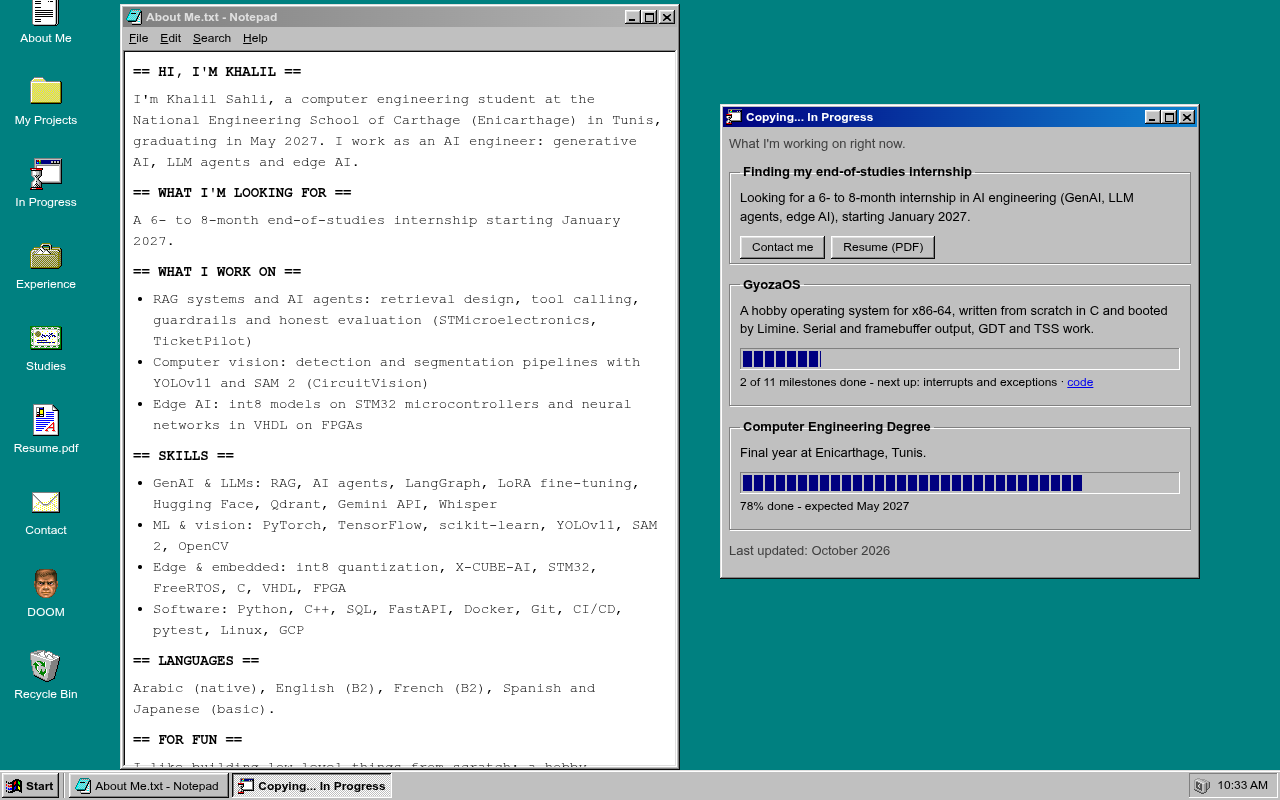
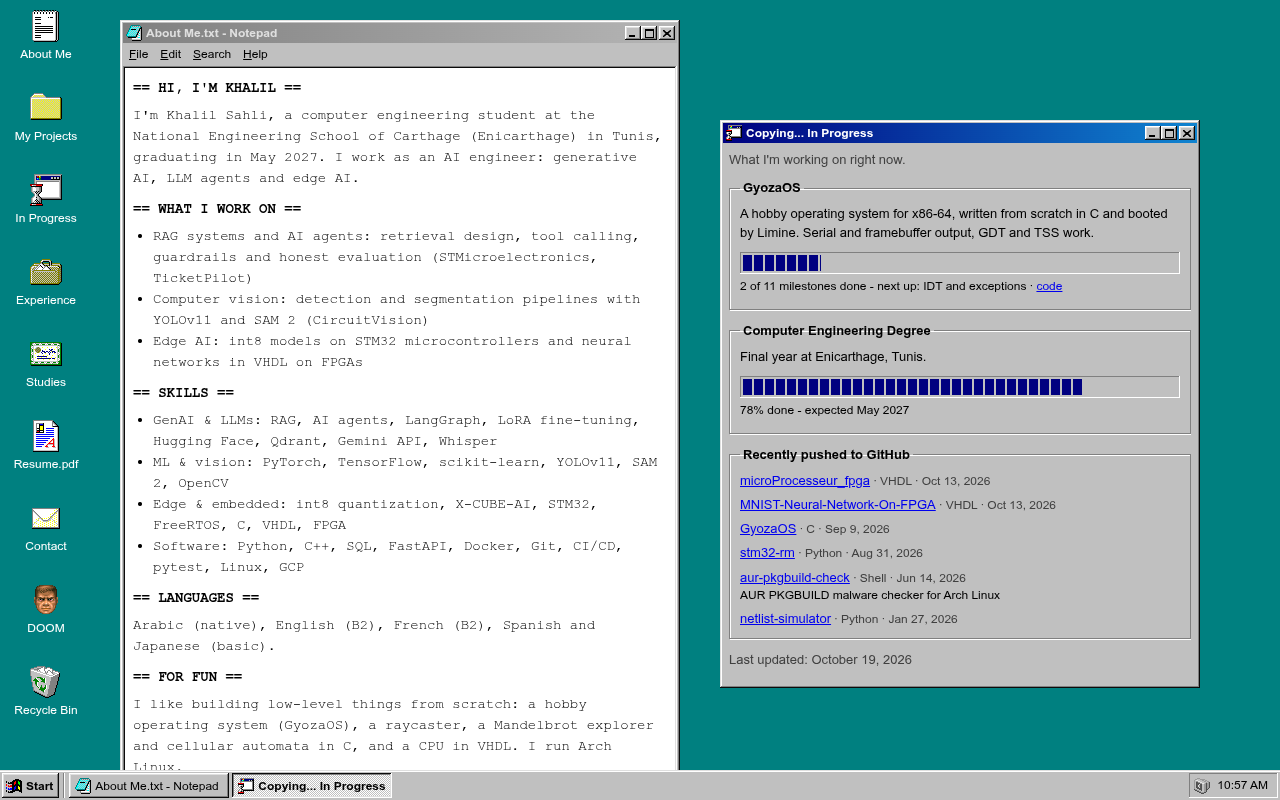
Remove internship mentions, refresh screenshots

diff --git a/index.html b/index.html
@@ -60,7 +60,6 @@
         </div>
         <div class="welcome-text sunken">
           <p><b>Hi! I'm Khalil Sahli</b>, an AI engineer working on generative AI, LLM agents and edge AI, and a computer engineering student at Enicarthage in Tunis.</p>
-          <p><b>I'm looking for a 6- to 8-month end-of-studies internship starting January 2027.</b></p>
           <p>Double-click an icon on the desktop or use the buttons on the left to look around.</p>
         </div>
       </div>
@@ -77,9 +76,6 @@
     <div class="window-body notepad sunken">
       <h2>Hi, I'm Khalil</h2>
       <p>I'm Khalil Sahli, a computer engineering student at the National Engineering School of Carthage (Enicarthage) in Tunis, graduating in May 2027. I work as an AI engineer: generative AI, LLM agents and edge AI.</p>
-
-      <h2>What I'm looking for</h2>
-      <p>A 6- to 8-month end-of-studies internship starting January 2027.</p>
 
       <h2>What I work on</h2>
       <ul>
@@ -285,14 +281,6 @@
     <div class="window-body">
       <p class="muted">What I'm working on right now.</p>
       <!-- One fieldset per item. Change both the width % and aria-valuenow. -->
-      <fieldset class="job">
-        <legend>Finding my end-of-studies internship</legend>
-        <p>Looking for a 6- to 8-month internship in AI engineering (GenAI, LLM agents, edge AI), starting January 2027.</p>
-        <div class="button-row">
-          <button type="button" class="button" data-open="contact">Contact me</button>
-          <a class="button" href="CV_Khalil_Sahli.pdf" target="_blank" rel="noopener">Resume (PDF)</a>
-        </div>
-      </fieldset>
       <fieldset class="job">
         <legend>GyozaOS</legend>
         <p>A hobby operating system for x86-64, written from scratch in C and booted by Limine. Serial and framebuffer output, GDT and TSS work.</p>

diff --git a/style.css b/style.css
@@ -96,6 +96,7 @@ a:visited { color: var(--link-visited); }
   position: fixed;
   inset: 0 0 var(--taskbar-h) 0;
   overflow: hidden;
+  overflow: clip; /* unlike hidden, focus can't scroll it, so icons never shift when a window hangs off the bottom */
 }
 
 .desktop-icons {
